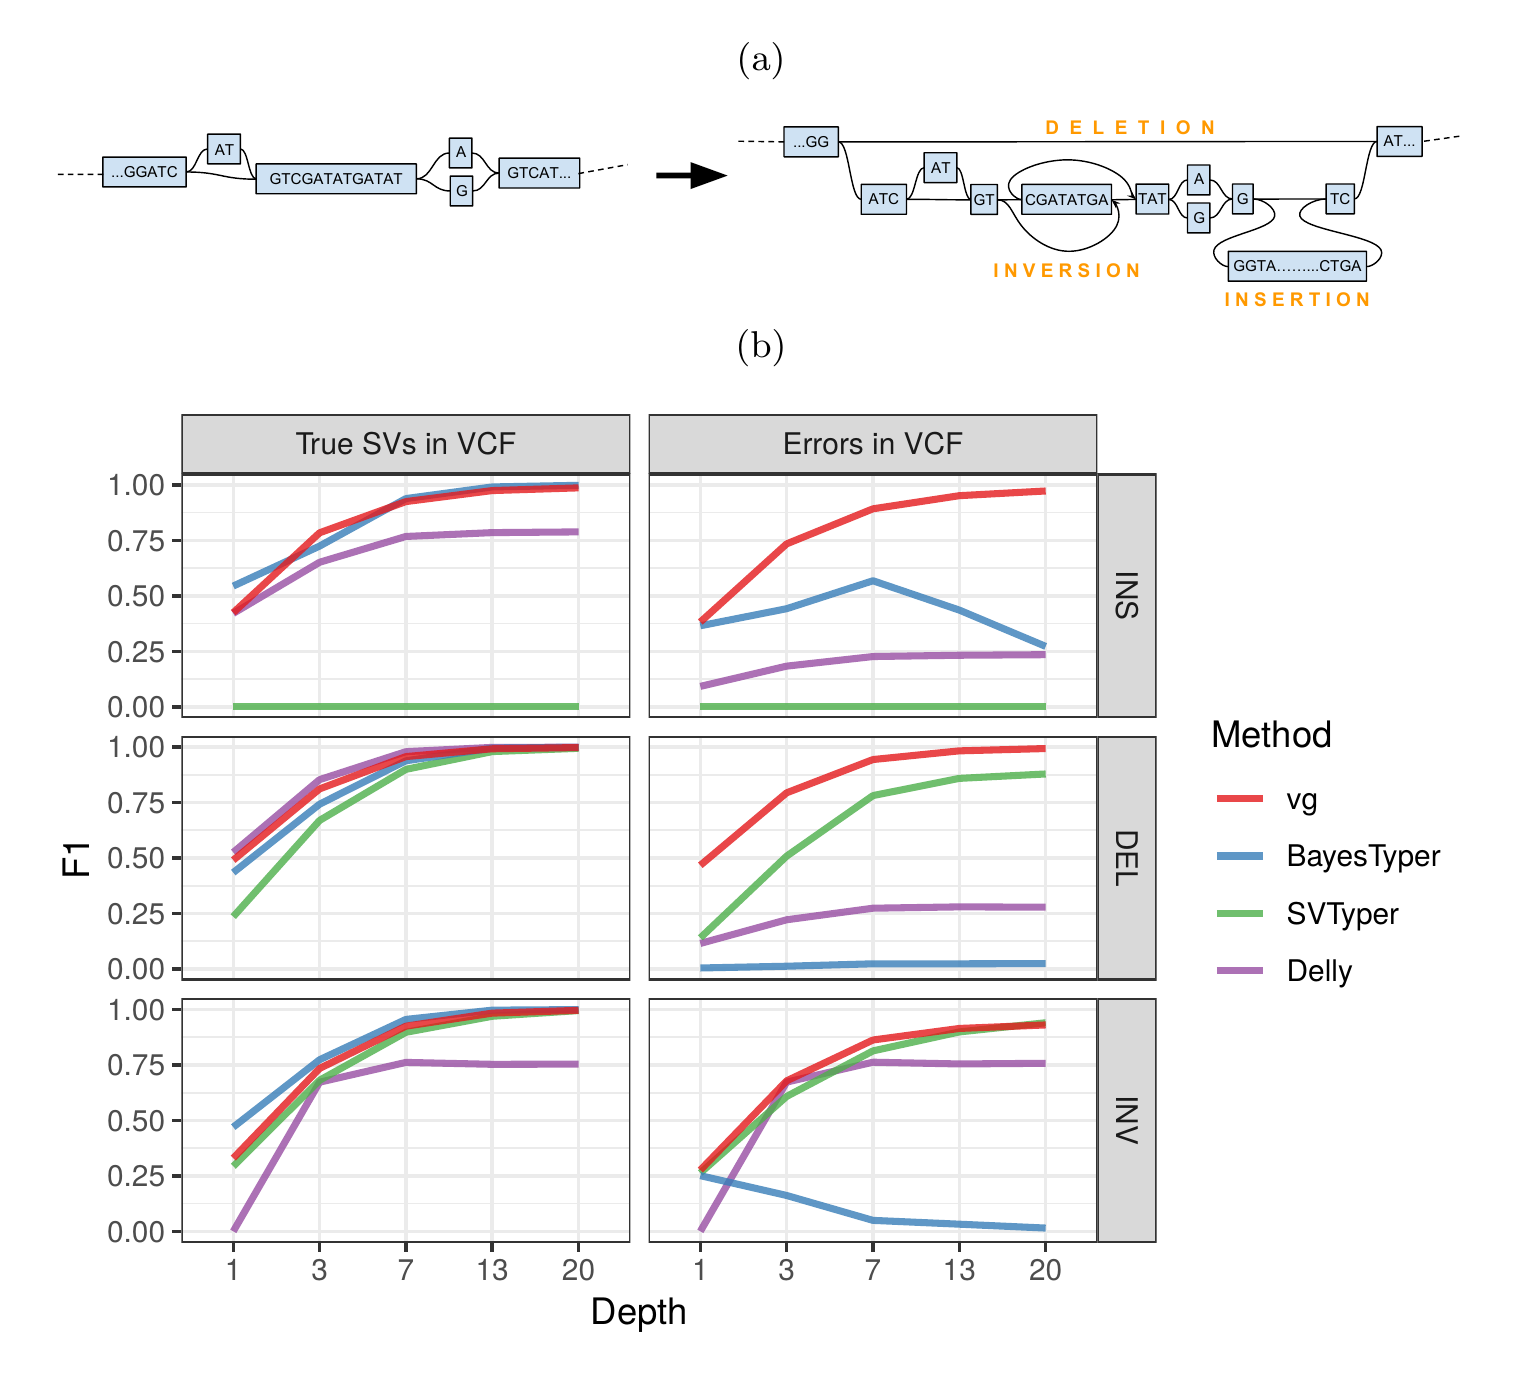
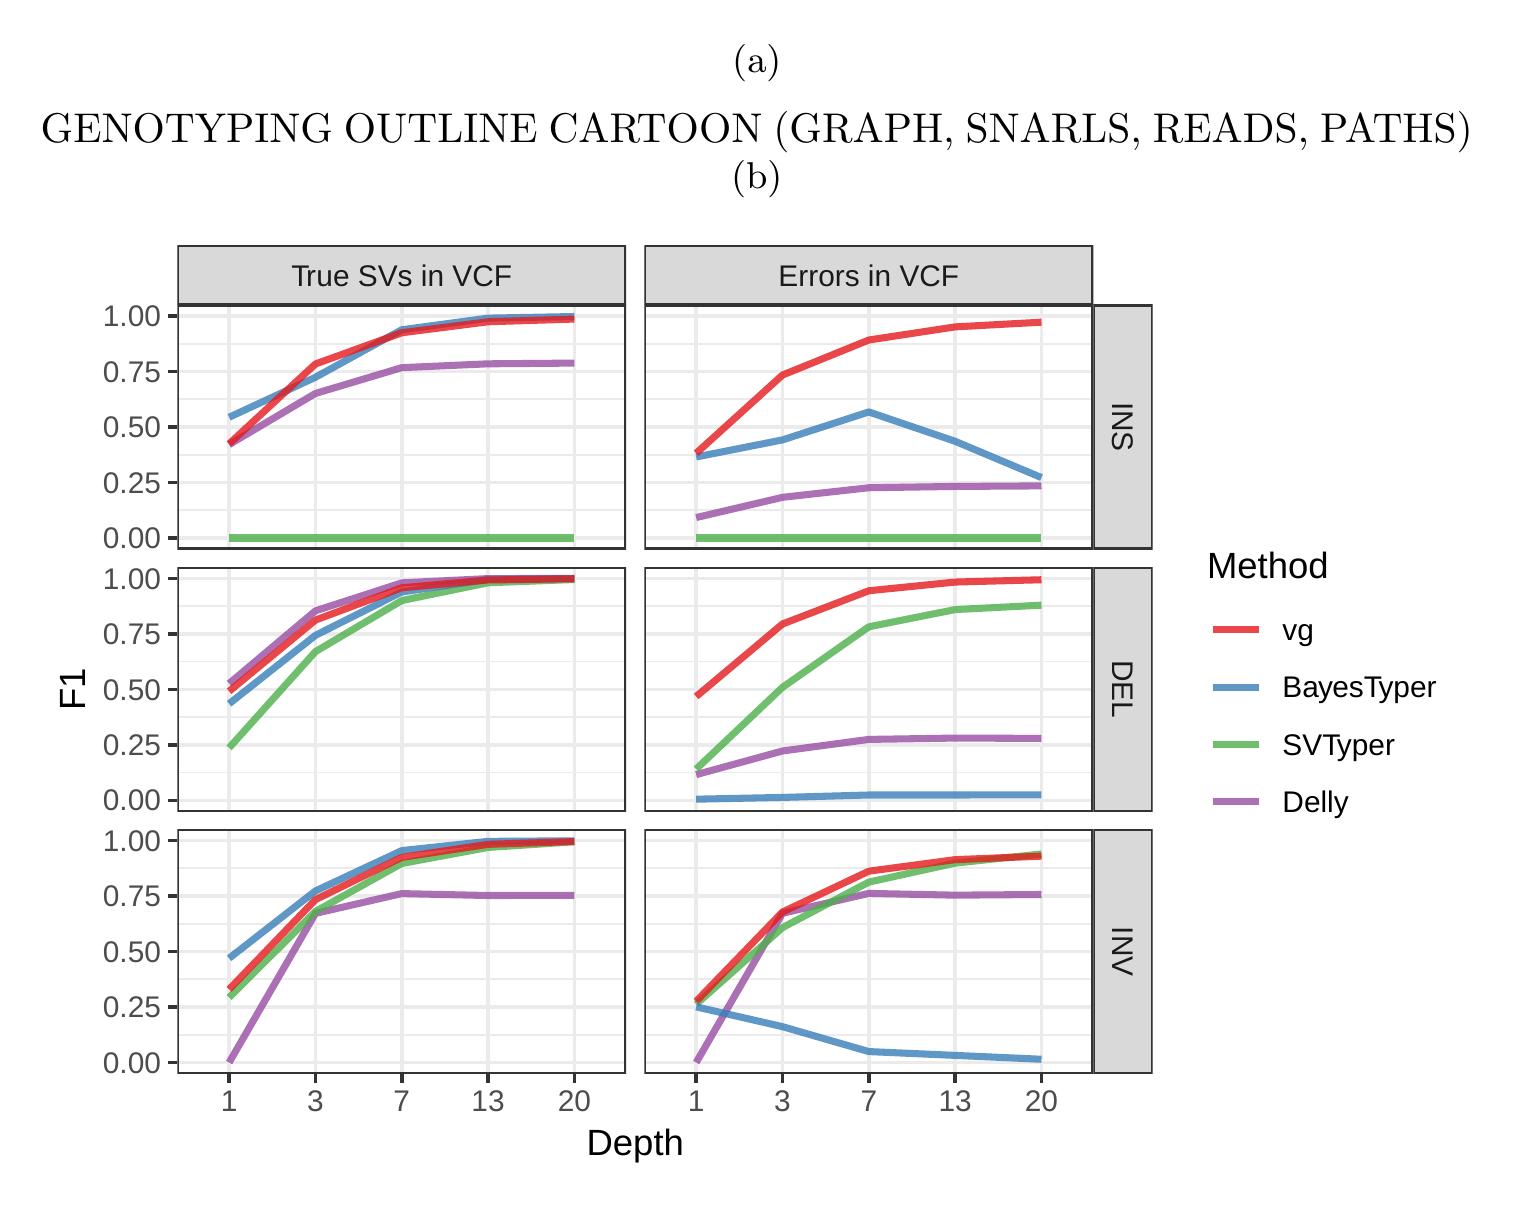
reorg sections, move to supp, add erik viz

diff --git a/figures/panels.tex b/figures/panels.tex
@@ -13,7 +13,8 @@
 \begin{figure}
   \begin{subfigure}[b]{\textwidth}
     \caption{}
-    \includegraphics[width=\textwidth]{VGSVcartoon.pdf}
+    GENOTYPING OUTLINE CARTOON (GRAPH, SNARLS, READS, PATHS)
+    % \includegraphics[width=\textwidth]{VGSVcartoon.pdf}
   \end{subfigure}
 
   \begin{subfigure}[b]{\textwidth}
@@ -85,6 +86,19 @@
   \begin{subfigure}[b]{.5\textwidth}
     \caption{}
     \includegraphics[width=\textwidth]{pdf/yeast-genotyping-identity-all.pdf}
+  \end{subfigure}
+\end{figure}
+
+%% PANEL 7 HGSVC examples
+\clearpage
+\begin{figure}
+  \begin{subfigure}[b]{\textwidth}
+    \caption{}
+    \includegraphics[width=\textwidth, page=28]{pdf/hgsvc-augment-odgi-viz-2019-04-17.pdf}
+  \end{subfigure}
+  \begin{subfigure}[b]{\textwidth}
+    \caption{}
+    \includegraphics[width=\textwidth, page=180]{pdf/hgsvc-augment-odgi-viz-2019-04-17.pdf}
   \end{subfigure}
 \end{figure}
 

diff --git a/content/03.results.md b/content/03.results.md
@@ -2,19 +2,11 @@
 
 ### Structural variation in vg
 
-A variation graph encodes DNA sequence in its nodes.
-Such graphs are bidirected, in that we distinguish between edges incident on the starts of nodes from those incident on their ends.
-A path in such a graph is an  ordered list of nodes where each is associated with an orientation.
-If a path walks from, for example, node A in the forward orientation to node B in the reverse orientation, then an edge must exist from the end of node A to the end of node B.
-Concatenating the sequences on each node in the path, taking the reverse complement when the node is visited in reverse orientation, produces a DNA sequence. 
-Accordingly, variation graphs are constructed so as to encode haplotype sequences as walks through the graph.
-Variation between sequences shows up as bubbles in the graph [@tag:snarls].
-Figure {@fig:1}a shows how a graph with a SNP and an indel can be extended to contain more complex SVs.
-
+In vg, a variation graph represents DNA sequences and genomic variation using sequence nodes linked by edges (see [Supplementary Information](#supplementary-information) and {@fig:vg-sv-cartoon}).
 We used vg to implement a simple SV genotyping pipeline.
 Reads are mapped to the graph and used to compute the read support for each node and edge.
 Sites of variation are then identified using the snarl decomposition as described in [@tag:snarls].
-For each site, the two most supported paths (haplotypes) are determined, and their relative supports used to produce a genotype at that site.
+For each site, the two most supported paths (haplotypes) are determined, and their relative supports used to produce a genotype at that site (Figure {@fig:1}a).
 The pipeline is described in more detail in [Methods](#simulation-experiment).
 We rigorously evaluated the accuracy of our method on a variety of datasets,  and the results are presented in the remainder of this section.
 
@@ -52,12 +44,6 @@ When restricting the comparisons to regions not identified as tandem repeats or 
 We observed similar results when evaluating the presence of an SV call instead of the exact genotype (Figures {@fig:2} and {@fig:hgsvc-sim}).
 Overall, both graph-based methods, vg and BayesTyper, outperformed the other two methods tested.
 
-We then repeated the analysis using real Illumina reads from HG00514 to benchmark the methods on a more realistic experiment.
-Here vg clearly outperformed other approaches, most likely because of its graph-based strategy and robustness to errors in the SV catalog (Figures {@fig:2} and  {@fig:hgsvc-real-geno}).
-In non-repeat regions and across the whole genome, the F1 scores and precision-recall AUC were higher for vg compared to other methods. 
-For example, for deletions in non-repeat regions, the F1 score for vg was 0.801 while the second best method, Delly, had a F1 score of 0.692.
-We observed similar results when evaluating the presence of an SV call instead of the exact genotype (Figures {@fig:2} and {@fig:hgsvc-real}).
-
 ![**Structural variants from the HGSVC and Genome in a Bottle datasets**. 
 HGSVC: Simulated and real reads were used to genotype SVs and compared with the high-quality calls from Chaisson et al.[@tag:hgsvc].
 Reads were simulated from the HG00514 individual.
@@ -67,6 +53,21 @@ Maximum F1 score for each method (color), across the whole genome or focusing on
 We evaluated the ability to predict the presence of an SV (transparent bars) and the exact genotype (solid bars).
 SVTyper cannot genotype insertions hence the absent bars in the top panel.
 ](images/hgsvc-giab-best-f1.png){#fig:2}
+
+We then repeated the analysis using real Illumina reads from HG00514 to benchmark the methods on a more realistic experiment.
+Here vg clearly outperformed other approaches, most likely because of its graph-based strategy and robustness to errors in the SV catalog (Figures {@fig:2} and  {@fig:hgsvc-real-geno}).
+In non-repeat regions and across the whole genome, the F1 scores and precision-recall AUC were higher for vg compared to other methods. 
+For example, for deletions in non-repeat regions, the F1 score for vg was 0.801 while the second best method, Delly, had a F1 score of 0.692.
+We observed similar results when evaluating the presence of an SV call instead of the exact genotype (Figures {@fig:2} and {@fig:hgsvc-real}).
+Figure {@fig:hgsvc-ex} shows examples of an exonic deletion and an exonic insertion that were correctly genotyped by vg but not by the other methods.
+
+![**Exonic SVs in the HGSVC dataset correctly genotyped by vg**. 
+The red/blue segments represent read mapped to the graph whose topology is shown at the bottom in black.
+Between the graph and the reads, a colored horizontal bar shows the path followed by the reference genome (GRCh38).
+a) 51 bp homozygous deletion in the last exon of the LONRF2 gene.
+b) 114 bp homozygous insertion in a short tandem repeat region overlapping the first exon of the MED13L gene, a gene predicted to be loss of function intolerant.
+](images/panel7.png){#fig:hgsvc-ex}
+
 
 ### Other long-read datasets
 
@@ -103,13 +104,8 @@ This bypasses the need for generating an explicit variant catalog relative to a 
 Furthermore, genome alignments from software such as Cactus [@doi:10.1101/gr.123356.111] can contain complex structural variation that is extremely difficult to represent, let alone call, outside of a graph.
 We therefore investigated whether genome graphs derived from de-novo assembly alignments yield advantages for SV genotyping.
 To this end, we analyzed public sequencing datasets for 12 yeast strains from two related clades (*S. cerevisiae* and *S. paradoxus*) [@doi:10.1038/ng.3847].
-
-By generating genome graphs from only five of the strains we could measure how well we can assay variation in the full set of 12 strains using only limited information from a small subset of strains.
-We generated and compared two different types of genome graphs.
-The first graph type (in the following called *VCF graph*) was created from a linear reference genome of the *S.c. S288C* strain and a set of SVs relative to this reference strain in VCF format.
-We compiled the SV set using the output of three methods for SV detection from genome assemblies: Assemblytics [@doi:10.1093/bioinformatics/btw369], AsmVar [@doi:10.1186/s13742-015-0103-4] and paftools [@doi:10.1093/bioinformatics/bty191].
-All three methods were run to detect SVs between the reference strain and each of the other strains.
-Merging the results from the three methods and four of the eleven strains provided us with a representative set of SVs occurring in the two yeast clades that we could use to construct the *VCF graph*.
+We generated and compared two different types of genome graphs using 5 of the 12 strains, *S.c. S288C* as the reference strain and two other strains for each yeast clade (see [Methods](#yeast-graph-analysis)).
+The first graph type (in the following called *VCF graph*) was created from the linear reference genome of the *S.c. S288C* strain and a set of SVs relative to this reference strain in VCF format identified by three methods: Assemblytics [@doi:10.1093/bioinformatics/btw369], AsmVar [@doi:10.1186/s13742-015-0103-4] and paftools [@doi:10.1093/bioinformatics/bty191].
 The second graph (in the following called *cactus graph*) was derived from a multiple genome alignment of the five strains using our Cactus tool [@doi:10.1101/gr.123356.111].
 The *VCF graph* is mainly linear and highly dependent on the reference genome.
 In contrast, the *cactus graph* is structurally complex and free of reference bias.
@@ -130,11 +126,7 @@ Only for the reference strain *S.c. S288C*, the *VCF graph* exhibited slightly b
 This suggests that the improvement in mappability is not driven by the higher sequence content in the *cactus graph* alone (15.4 Mb compared to 12.4 Mb in the *VCF graph*).
 Instead, our measurements suggest that the genetic distance to the reference strain correlates with the better mapping on the *cactus graph* over the *VCF graph* (Pearson's product-moment correlation, p-value=1.415e-11).
 Consequently, the benefit of using the *cactus graph* is largest for strains in the *S. paradoxus* clade and smaller for reads from strains in the *S. cerevisiae* clade.
-
-We observed a similar trend when exploring the mapping identity of the short reads on the graphs (see Figure {@fig:3}b).
-For strains in the *S. paradoxus* clade, the *cactus graph* resulted in substantially more mappings with high percent identity than the *VCF graph*.
-With strains in the *S. cerevisiae* clade, the difference was smaller, at least for a percent identity threshold up to 90%.
-When comparing read fractions with perfect identity (i.e. percent identity threshold = 100%), the *cactus graph* clearly outperforms the *VCF graph* on 11 out of 12 samples, the exception again being the reference strain *S.c. S288C*. One reason behind this is that the VCF graph only contains SVs but no SNPs or Indels. The cactus graph which is constructed directly from de novo assemblies consequently captures the genetic makeup of each strain more comprehensively and accurately.
+We observed a similar trend when exploring the mapping identity of the short reads on the graphs (see Figure {@fig:3}b and [Supplementary Information](#supplementary-information)).
 
 Interestingly, our measurements did not show a substantial difference between strains included in the graph and excluded strains. The results suggest that two strains from each clade as well as the reference strain are sufficient to capture most of the genetic variation among all the strains. Only the number of alignments with perfect identity is substantially lower for the strains that were not included in the creation of the graphs (see Figure {@fig:3}b). For a direct comparison, see Figure {@fig:panel5} which shows results of the same experiment on graphs generated from all 12 strains.
 

diff --git a/content/06.suppmaterial.md b/content/06.suppmaterial.md
@@ -1,5 +1,7 @@
 ## Supplementary Material {.page_break_before}
 
+### Supplementary Tables
+
 | Experiment      | Method     | Type | Precision     | Recall        | F1            |
 |:----------------|:-----------|:-----|:--------------|:--------------|:--------------|
 | Simulated reads | vg         | INS  | 0.795 (0.885) | 0.796 (0.883) | 0.795 (0.884) |
@@ -118,27 +120,29 @@ For insertions, the insertion location and sequence contained errors.
 In all cases, the errors affected 1-10 bp.
 {#tbl:simerror-bkpt tag="S6"}
 
----
+### Supplementary Figures
 
-![**Genotyping evaluation on the HGSVC dataset using simulated reads.**](images/hgsvc-sim-geno.png){#fig:hgsvc-sim-geno tag="S1"}
+![**Adding large insertions, deletions and inversions in a variation graph.**](images/VGSVcartoon.png){#fig:vg-sv-cartoon tag="S1"}
 
-![**Calling evaluation on the HGSVC dataset using simulated reads.**](images/hgsvc-sim.png){#fig:hgsvc-sim tag="S2"}
+![**Genotyping evaluation on the HGSVC dataset using simulated reads.**](images/hgsvc-sim-geno.png){#fig:hgsvc-sim-geno tag="S2"}
 
-![**Genotyping evaluation on the HGSVC dataset using real reads.** Combined results across the HG00514, HG00733 and NA19240.](images/hgsvc-real-geno.png){#fig:hgsvc-real-geno tag="S3"}
+![**Calling evaluation on the HGSVC dataset using simulated reads.**](images/hgsvc-sim.png){#fig:hgsvc-sim tag="S3"}
 
-![**Calling evaluation on the HGSVC dataset using real reads.** Combined results across the HG00514, HG00733 and NA19240.](images/hgsvc-real.png){#fig:hgsvc-real tag="S4"}
+![**Genotyping evaluation on the HGSVC dataset using real reads.** Combined results across the HG00514, HG00733 and NA19240.](images/hgsvc-real-geno.png){#fig:hgsvc-real-geno tag="S4"}
 
-![**Genotyping evaluation on the Genome in a Bottle dataset.** Predicted genotypes on HG002 were compared to the high-quality SVs from this same individual.](images/giab5-geno.png){#fig:giab-geno tag="S5"}
+![**Calling evaluation on the HGSVC dataset using real reads.** Combined results across the HG00514, HG00733 and NA19240.](images/hgsvc-real.png){#fig:hgsvc-real tag="S5"}
 
-![**Calling evaluation on the Genome in a Bottle dataset.** Calls on HG002 were compared to the high-quality SVs from this same individual.](images/giab5.png){#fig:giab tag="S6"}
+![**Genotyping evaluation on the Genome in a Bottle dataset.** Predicted genotypes on HG002 were compared to the high-quality SVs from this same individual.](images/giab5-geno.png){#fig:giab-geno tag="S6"}
 
-![**Genotyping evaluation on the CHM pseudo-diploid dataset.** The pseudo-diploid genome was built from CHM cell lines and used to train SMRT-SV2 in Audano et al.[@tag:audano2019]](images/chmpd-geno.png){#fig:chmpd-geno tag="S7"}
+![**Calling evaluation on the Genome in a Bottle dataset.** Calls on HG002 were compared to the high-quality SVs from this same individual.](images/giab5.png){#fig:giab tag="S7"}
 
-![**Calling evaluation on the CHM pseudo-diploid dataset.** The pseudo-diploid genome was built from CHM cell lines and used to train SMRT-SV2 in Audano et al.[@tag:audano2019]](images/chmpd.png){#fig:chmpd tag="S8"}
+![**Genotyping evaluation on the CHM pseudo-diploid dataset.** The pseudo-diploid genome was built from CHM cell lines and used to train SMRT-SV2 in Audano et al.[@tag:audano2019]](images/chmpd-geno.png){#fig:chmpd-geno tag="S8"}
 
-![**Calling evaluation on the SVPOP dataset.** Combined results across the HG00514, HG00733 and NA19240.](images/svpop.png){#fig:svpop tag="S9"}
+![**Calling evaluation on the CHM pseudo-diploid dataset.** The pseudo-diploid genome was built from CHM cell lines and used to train SMRT-SV2 in Audano et al.[@tag:audano2019]](images/chmpd.png){#fig:chmpd tag="S9"}
 
-![**Evaluation across different sets of regions in HG00514 (SVPOP dataset)**. Calling evaluation.](images/svpop-regions.png){#fig:svpop-regions tag="S10"}
+![**Calling evaluation on the SVPOP dataset.** Combined results across the HG00514, HG00733 and NA19240.](images/svpop.png){#fig:svpop tag="S10"}
+
+![**Evaluation across different sets of regions in HG00514 (SVPOP dataset)**. Calling evaluation.](images/svpop-regions.png){#fig:svpop-regions tag="S11"}
 
 
 ![**Breakpoint fine-tuning using augmentation through "vg call".**
@@ -147,7 +151,7 @@ For insertions, the insertion location and sequence contained errors.
 a) Proportion of variant for which breakpoints could be fine-tuned. 
 b) Distribution of the amount of errors that could be corrected or not.
 c) Distribution of the size of the variants whose breakpoints could be fine-tuned or not.
-](images/simerror-bkpt-finetuning-vgcall.png){#fig:simerror-bkpt tag="S11"}
+](images/simerror-bkpt-finetuning-vgcall.png){#fig:simerror-bkpt tag="S12"}
 
 
 ![**Mapping comparison on graphs of all 12 strains.**
@@ -155,11 +159,43 @@ Short reads from all 12 yeast strains were aligned to both graphs. The fraction 
 a) Stratified by mapping quality threshold.
 b) Stratified by percent identity threshold.
 Colors and shapes represent the 12 strains and two clades, respectively.
-](images/panel5.png){#fig:panel5 tag="S12"}
+](images/panel5.png){#fig:panel5 tag="S13"}
 
 ![**SV genotyping comparison on graphs of all 12 strains.**
 Short reads from all 11 non-reference yeast strains were used to genotype SVs contained in both graphs. Subsequently, sample graphs were generated from the resulting SV callsets. The short reads were again aligned to the sample graphs and the quality of the alignments was used to ascertain genotyping performance.
 a) Average mapping quality of short reads aligned to the sample graphs derived from *cactus graph* (y-axis) and *VCF graph* (x-axis).
 b) Average mapping identity of short reads aligned to the sample graphs derived from *cactus graph* (y-axis) and *VCF graph* (x-axis). 
 Colors and shapes represent the 11 non-reference strains and two clades, respectively.
-](images/panel6.png){#fig:panel6 tag="S13"}
+](images/panel6.png){#fig:panel6 tag="S14"}
+
+### Supplementary Information
+
+#### Variation graph and structural variation
+
+A variation graph encodes DNA sequence in its nodes.
+Such graphs are bidirected, in that we distinguish between edges incident on the starts of nodes from those incident on their ends.
+A path in such a graph is an  ordered list of nodes where each is associated with an orientation.
+If a path walks from, for example, node A in the forward orientation to node B in the reverse orientation, then an edge must exist from the end of node A to the end of node B.
+Concatenating the sequences on each node in the path, taking the reverse complement when the node is visited in reverse orientation, produces a DNA sequence. 
+Accordingly, variation graphs are constructed so as to encode haplotype sequences as walks through the graph.
+Variation between sequences shows up as bubbles in the graph [@tag:snarls].
+Figure {@fig:1}a shows how a graph with a SNP and an indel can be extended to contain more complex SVs.
+
+
+#### Breakpoint fine-tuning
+
+In addition to genotyping, vg can use an augmentation step to modify the graph based on the read alignment and discover novel variants.
+On the simulated SVs from Figure {@fig:1}b, this approach was able to correct many of the 1-10 bp breakpoint errors that were added to the input VCF.
+The breakpoints were accurately fine-tuned for 93.8% of the insertions (Figure {@fig:simerror-bkpt}a and Table {@tbl:simerror-bkpt}).
+For deletions, 78.1% of the variants were corrected when only one breakpoint had an error.
+In situations where both breakpoints of the deletions were incorrect, only 18.6% were corrected through graph augmentation, and only when the amount of error was small (Figure {@fig:simerror-bkpt}b).
+The breakpoints of less than 20% of the inversions could be corrected.
+Across all SV types, the size of the variant didn't affect the ability to fine-tune the breakpoints through graph augmentation (Figure {@fig:simerror-bkpt}c).
+
+#### Mapping identity in genome graphs from 12 yeast strains
+
+Generally, more reads were mapped to the *cactus graph* than to the *VCF graph*.
+We observed a similar trend when exploring the mapping identity of the short reads on the graphs (see Figure {@fig:3}b).
+For strains in the *S. paradoxus* clade, the *cactus graph* resulted in substantially more mappings with high percent identity than the *VCF graph*.
+With strains in the *S. cerevisiae* clade, the difference was smaller, at least for a percent identity threshold up to 90%.
+When comparing read fractions with perfect identity (i.e. percent identity threshold = 100%), the *cactus graph* clearly outperforms the *VCF graph* on 11 out of 12 samples, the exception again being the reference strain *S.c. S288C*. One reason behind this is that the VCF graph only contains SVs but no SNPs or Indels. The cactus graph which is constructed directly from de novo assemblies consequently captures the genetic makeup of each strain more comprehensively and accurately.
